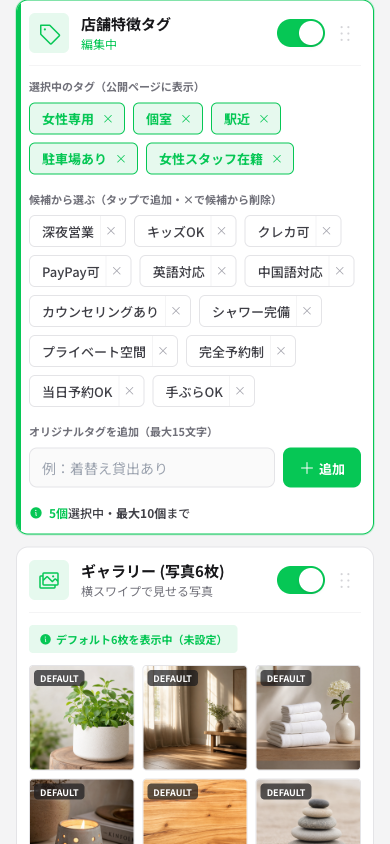
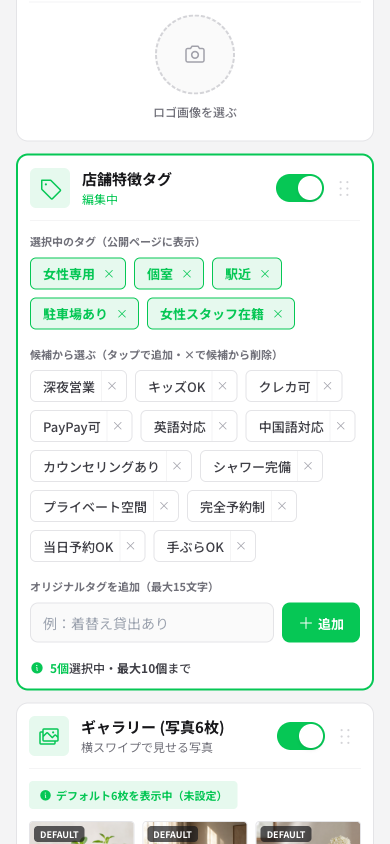
fix(admin02 Block3): 右端クリップ問題を解消（ring+overflow-hidden → border-2）
実機で「オリジナルタグを追加」入力欄+追加ボタンの右端が消える問題を修正：

- Block 3 article の構造を変更：
  ｜ border border-line ring-1 ring-line/20 ... overflow-hidden  ← クリップ原因
  ｜ ↓
  ｜ border-2 border-line               ← クリップなし
- 不要になった absolute left-0 top-0 bottom-0 w-1 bg-line（緑アクセントバー）も削除
- border-2 自体で"編集中ハイライト"を表現
- overflow-hidden を外したことで ring の clip 問題自体が消滅

diff --git a/shop-page/admin/02_block-edit.html b/shop-page/admin/02_block-edit.html
@@ -152,8 +152,7 @@
         </article>
 
         <!-- Block 3: Tags Expanded -->
-        <article class="shop-block bg-white border border-line ring-1 ring-line/20 rounded-xl p-3 relative overflow-hidden">
-          <div class="absolute left-0 top-0 bottom-0 w-1 bg-line"></div>
+        <article class="shop-block bg-white border-2 border-line rounded-xl p-3 relative">
           <div class="flex items-center gap-3">
             <div class="w-10 h-10 rounded-md bg-line/10 text-line flex items-center justify-center shrink-0">
               <i class="ph ph-tag text-2xl"></i>
